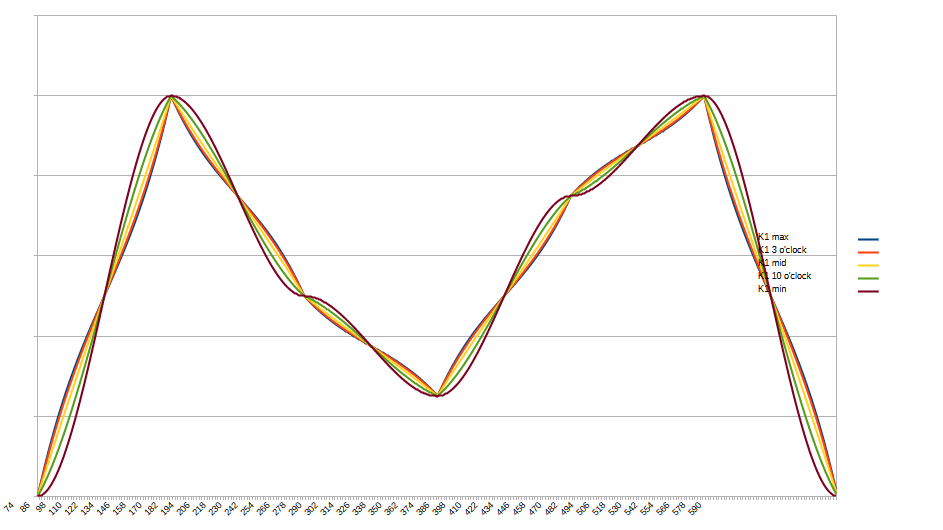
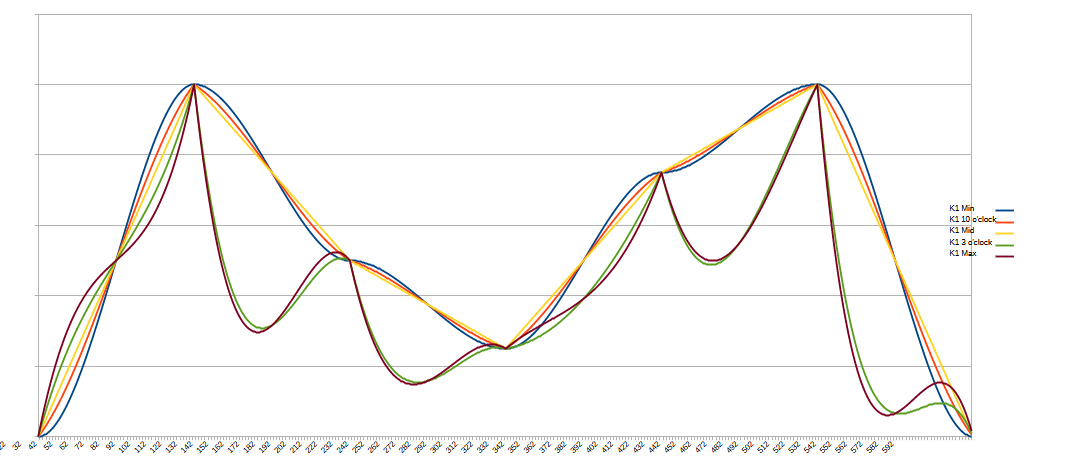
Implement cubic equation solver to calculate the curves from their parametric forms, set the output voltages. Still need to write the GUI, handle clipping, and fix any bugs that come up during testing

diff --git a/software/contrib/bezier.py b/software/contrib/bezier.py
@@ -10,6 +10,11 @@ from europi_script import EuroPiScript
 
 from experimental.knobs import *
 
+import configuration
+import math
+import random
+import time
+
 class LogicalOperator:
     """Abstract class used for saving the gate outputs' logical operation
 
@@ -64,6 +69,57 @@ class Point2D:
         return f"{self.x},{self.y}"
 
 
+def linear_interpolate(x1, x2, t):
+    """Linearly interpolate from one value to another
+
+    @param x1 The initial value of x
+    @param x2 The final value of x
+    @param t  The time [0, 1]
+
+    @return   The interpolated value of x
+    """
+    return x1 * (1-t) + x2 * t
+
+
+def solve_linear_system(m):
+    """
+    Use gaussian elimination to solve a series of linear equations
+
+    @param m  The augmented matrix representation of the series of equations. This array is mangled in the process
+              of calculation
+    @return   A matrix of the coefficients of the equation
+    """
+    n_eqs = len(m)
+
+    # sort the rows
+    for i in range(n_eqs):
+        for j in range(i+1, n_eqs):
+            if abs(m[i][i]) < abs(m[j][i]):
+                # swap rows i and j with each other
+                for k in range(n_eqs+1):
+                    tmp = m[j][k]
+                    m[j][k] = m[i][k]
+                    m[i][k] = tmp
+
+    # gaussian elimination
+    for i in range(n_eqs-1):
+        for j in range(i+1, n_eqs):
+            f = m[j][i] / m[i][i]
+            for k in range(n_eqs+1):
+                m[j][k] = m[j][k] - f * m[i][k]
+
+    # back substitution
+    results = list(range(n_eqs))
+    for i in range(n_eqs - 1, -1, -1):
+        results[i] = m[i][n_eqs]
+        for j in range(i+1, n_eqs):
+            if i != j:
+                results[i] = results[i] - m[i][j] * results[j]
+        results[i] = results[i] / m[i][i]
+
+    return results
+
+
 class BezierCurve:
     """Calculates 2D bezier curves using quadratic interpolation
 
@@ -79,48 +135,143 @@ class BezierCurve:
         self.origin.y = self.next_point.y
         self.next_point.y = y
 
+    def value_at(self, t, k):
+        """Get the value of the bezier curve for a given time
+
+        @param t  The time [0, 1]
+        @param k  The curve constant, in the range [-1, 1]  See @interpolate for details on the curve constant
+        """
+        # Get 4 points on the curve so we can create a cubic equation for the curve
+        p1 = self.interpolate(0, k)
+        p2 = self.interpolate(1/3, k)
+        p3 = self.interpolate(2/3, k)
+        p4 = self.interpolate(1, k)
+
+        # matrix representation
+        m = [
+            [p1.x**3, p1.x**2, p1.x, 1, p1.y],
+            [p2.x**3, p2.x**2, p2.x, 1, p2.y],
+            [p3.x**3, p3.x**2, p3.x, 1, p3.y],
+            [p4.x**3, p4.x**2, p4.x, 1, p4.y],
+        ]
+
+        coeffs = solve_linear_system(m)
+        return coeffs[0] * t**3 + coeffs[1] * t**2 + coeffs[2] * t + coeffs[3]
+
+
     def interpolate(self, t, k):
         """Calculate the 2D position for the given time
 
         See https://en.wikipedia.org/wiki/Bezier_curve#Cubic_curves for details on the math.
 
         @param t  The current interpolated time, between 0 and 1
-        @param k  A constant indicating our progression from horizontal endpoints (smoothest) @ 0.0 to
-                  linear @ 0.5 to vertical endpoints (spikiest) @ 1.0
+        @param k  A constant indicating our progression from horizontal endpoints (smoothest) @ -1.0 to
+                  linear @ 0.0 to vertical endpoints (spikiest) @ 1.0
         @return   The interpolated 2D point on the bezier curve
         """
-        # calculate everything as if we're going from 0 to 1, and then invert/rescale as needed
-        sin_x = math.sin(math.pi/2 * k)
-        cos_x = math.cos(math.pi/2 * k)
-        c1 = 0
-        c2 = 0.5 * cos_x
-        c3 = 1.0 - 0.5 * cos_x
-        c4 = 1
-        v1 = 0
-        v4 = 1
-        v2 = v1 + 0.5 * sin_x
-        v3 = v4 - 0.5 * sin_x
-        def X(t):
-            return (1-t)**3 * c1 + 3 * t * (1-t)**2 * c2 + 3 * t**2 * (1-t)*c3 + t**3 * c4
-        def Y(t):
-            return (1-t)**3 * v1 + 3 * t * (1-t)**2 * v2 + 3 * t**2 * (1-t) * v3 + t**3 * v4
-        q = Point2D(X(t), Y(t))
+        # Define 2 intermediate points, which are either horizontally or vertically aligned with the start and end points
+        p0 = self.origin
+        p1 = Point2D(0,0)
+        p2 = Point2D(0,0)
+        p3 = self.next_point
 
-        # invert vertically if needed
-        if self.next_point.y < self.origin.y:
-            q.y = 1.0 - q.y
+        if k <= 0:
+            # start/endpoints aligned horizontally with intermediate points
+            # /3 results in slightly smoother results; /2 was giving cusps on sharp peaks & valleys
+            p1.x = p0.x - k/3
+            p2.x = p3.x + k/3
+            p1.y = p0.y
+            p2.y = p3.y
+        else:
+            # start/endpoints aligned vertically with intermediate points
+            p1.x = p0.x
+            p2.x = p3.x
 
-        # re-scale the Y axis
-        q.y = rescale(q.y, 0, 1, min(self.origin.y, self.next_point.y), max(self.origin.y, self.next_point.y))
+            dy = abs(p0.y - p3.y)
 
-        return q
+            if p0.y < p3.y:
+                # p1 goes up, p2 goes down
+                p1.y = p1.y + dy * k/2
+                p2.y = p3.y - dy * k/2
+            else:
+                # p1 goes down, p2 goes up
+                p1.y = p1.y - dy * k/2
+                p2.y = p3.y + dy * k/2
+
+        q0 = Point2D(
+            linear_interpolate(p0.x, p1.x, t),
+            linear_interpolate(p0.y, p1.y, t)
+        )
+        q1 = Point2D(
+            linear_interpolate(p1.x, p2.x, t),
+            linear_interpolate(p1.y, p2.y, t)
+        )
+        q2 = Point2D(
+            linear_interpolate(p2.x, p3.x, t),
+            linear_interpolate(p2.y, p3.y, t)
+        )
+
+        r0 = Point2D(
+            linear_interpolate(q0.x, q1.x, t),
+            linear_interpolate(q0.y, q1.y, t)
+        )
+        r1 = Point2D(
+            linear_interpolate(q1.x, q2.x, t),
+            linear_interpolate(q1.y, q2.y, t)
+        )
+
+        b = Point2D(
+            linear_interpolate(r0.x, r1.x, t),
+            linear_interpolate(r0.y, r1.y, t)
+        )
+
+        return b
+
+
+class OutputChannel:
+    """Wrapper for a CV output channel
+    """
+    def __init__(self, script, frequency_in, curve_in, cv_out):
+        self.script = script
+        self.curve = BezierCurve()
+
+        self.cv_out = cv_out
+        self.frequency_in = frequency_in
+        self.curve_in = curve_in
+
+        self.voltage_out = 0
+        self.cv_out.off()
+        self.last_tick_at = time.ticks_ms()
+        self.change_voltage()
+
+    def change_voltage(self):
+        self.curve.set_next_value(random.random())
+
+    def update(self, clip_mode=CLIP_MODE_LIMIT):
+        now = time.ticks_ms()
+
+        k = self.curve_in.percent()
+        f = self.frequency_in.percent() * (self.script.config.MAX_FREQUENCY - self.script.config.MIN_FREQUENCY) + self.script.config.MIN_FREQUENCY
+        t = 1000.0/f  # Hz -> ms
+
+        elapsed_ms = time.ticks_diff(now, self.last_tick_at)
+        if elapsed_ms >= t:
+            self.change_voltage()
+            self.last_tick_at = now
+            elapsed_ms = 0
+
+        self.voltage_out = self.curve.value_at(elapsed_ms / t, k) * (self.script.config.MAX_VOLTAGE - self.script.config.MIN_VOLTAGE) + self.script.config.MIN_VOLTAGE
+
+        # TODO: apply clipping mode
+
+        self.cv_out.voltage(self.voltage_out)
 
 
 class Bezier(EuroPiScript):
     def __init__(self):
         super().__init__()
 
-        cfg = self.load_settings_json()
+        cfg = self.load_state_json()
 
         self.frequency_in = (
             KnobBank.builder(k2)
@@ -161,6 +312,9 @@ class Bezier(EuroPiScript):
         # Do we need to re-render the GUI?
         self.ui_dirty = True
 
+        self.curve_a = OutputChannel(self, self.frequency_in["channel_a"], self.curve_in["channel_a"], cv1)
+        self.curve_b = OutputChannel(self, self.frequency_in["channel_b"], self.curve_in["channel_b"], cv2)
+
         @b1.handler
         def on_b1_press():
             self.clip_mode = (self.clip_mode + 1) % N_CLIP_MODES
@@ -198,13 +352,52 @@ class Bezier(EuroPiScript):
             "channel_b_frequency": self.frequency_in_in["channel_b"].percent(),
             "clip_mode": self.clip_mode
         }
-        self.save_settings_json(cfg)
+        self.save_state_json(cfg)
         self.settings_dirty = False
 
     def main(self):
+        GATE_DURATION = 0
+        HALF_VOLTAGE = (self.config.MIN_VOLTAGE + self.config.MAX_VOLTAGE) / 2
+
+        gate_a = False
+        gate_b = False
         while True:
+            now = time.ticks_ms()
+
+            # set the main outputs, calculate the bezier curves
+            self.curve_a.update()
+            self.curve_b.update()
+
+            # set cv3 to the average of the channels
+            cv3.voltage((self.curve_a.voltage_out + self.curve_b.voltage_out) / 2)
+
+            # set the trigger state for cv4
+            if time.ticks_diff(now, self.curve_a.last_tick_at) <= GATE_DURATION:
+                cv4.on()
+                gate_a = True
+            else:
+                cv4.off()
+                gate_a = False
+
+            # set cv5 high/low, depending on the value of channel b
+            if self.curve_b.voltage_out >= HALF_VOLTAGE:
+                cv5.on()
+                gate_b = True
+            else:
+                cv5.off()
+                gate_b = False
+
+            logic_gate_on = self.gate_logic.compare(gate_a, gate_b)
+            if logic_gate_on:
+                cv6.on()
+            else:
+                cv6.off()
+
+            # save settings if needed
             if self.settings_dirty:
                 self.save()
+
+            # TODO: GUI
 
 if __name__ == "__main__":
     Bezier().main()
